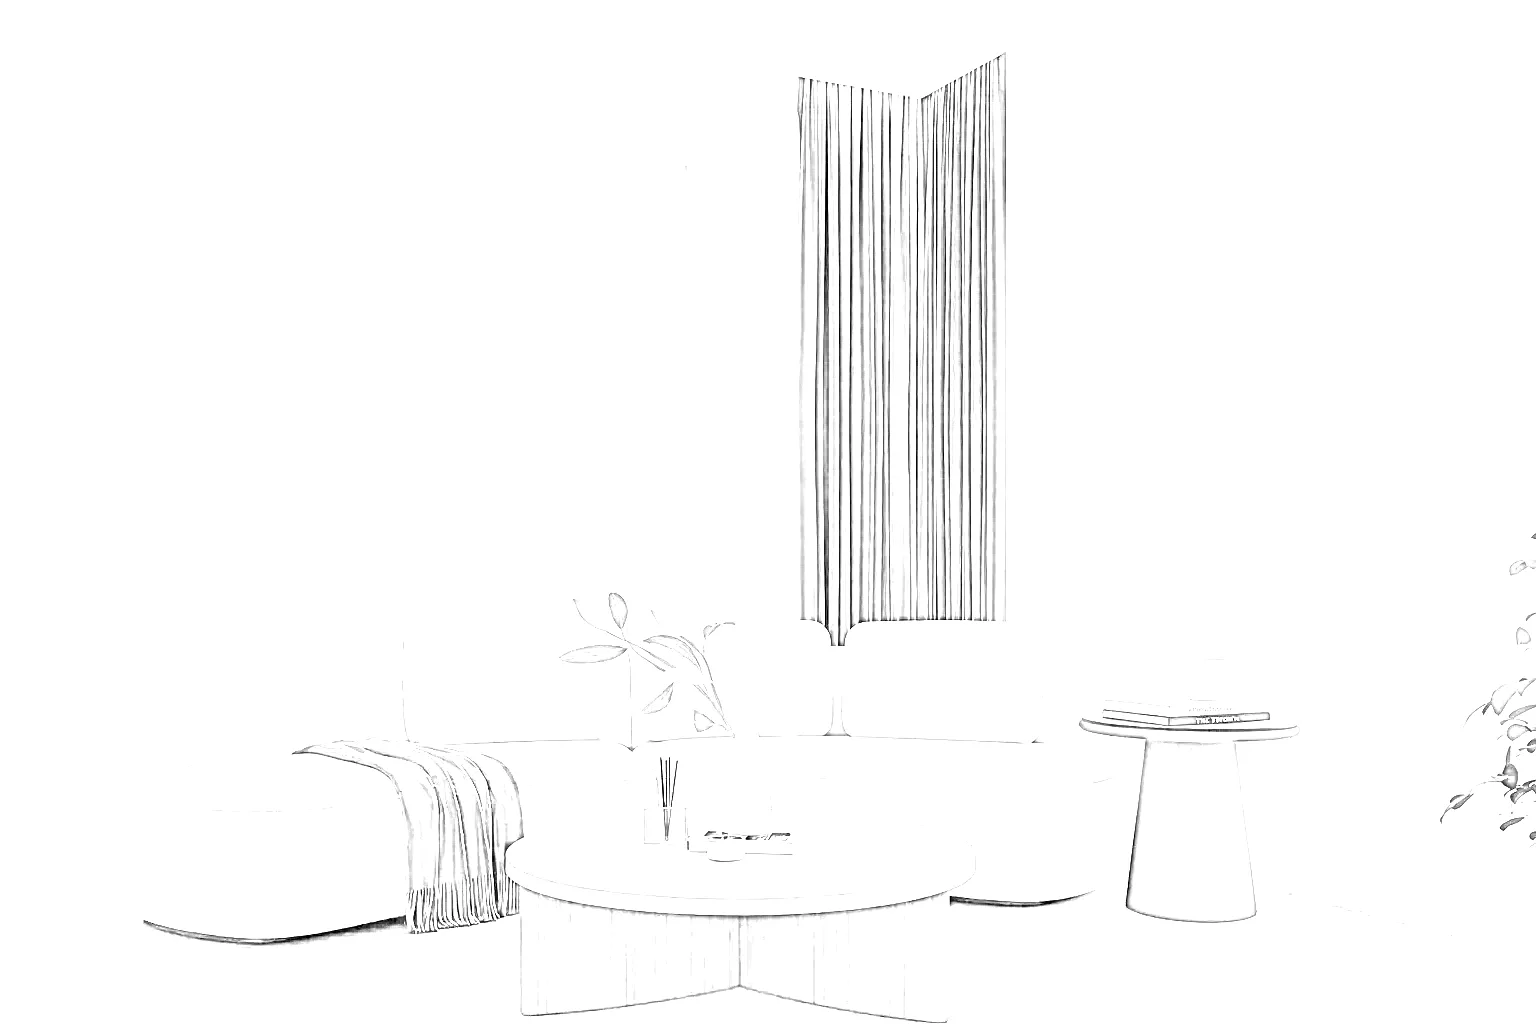
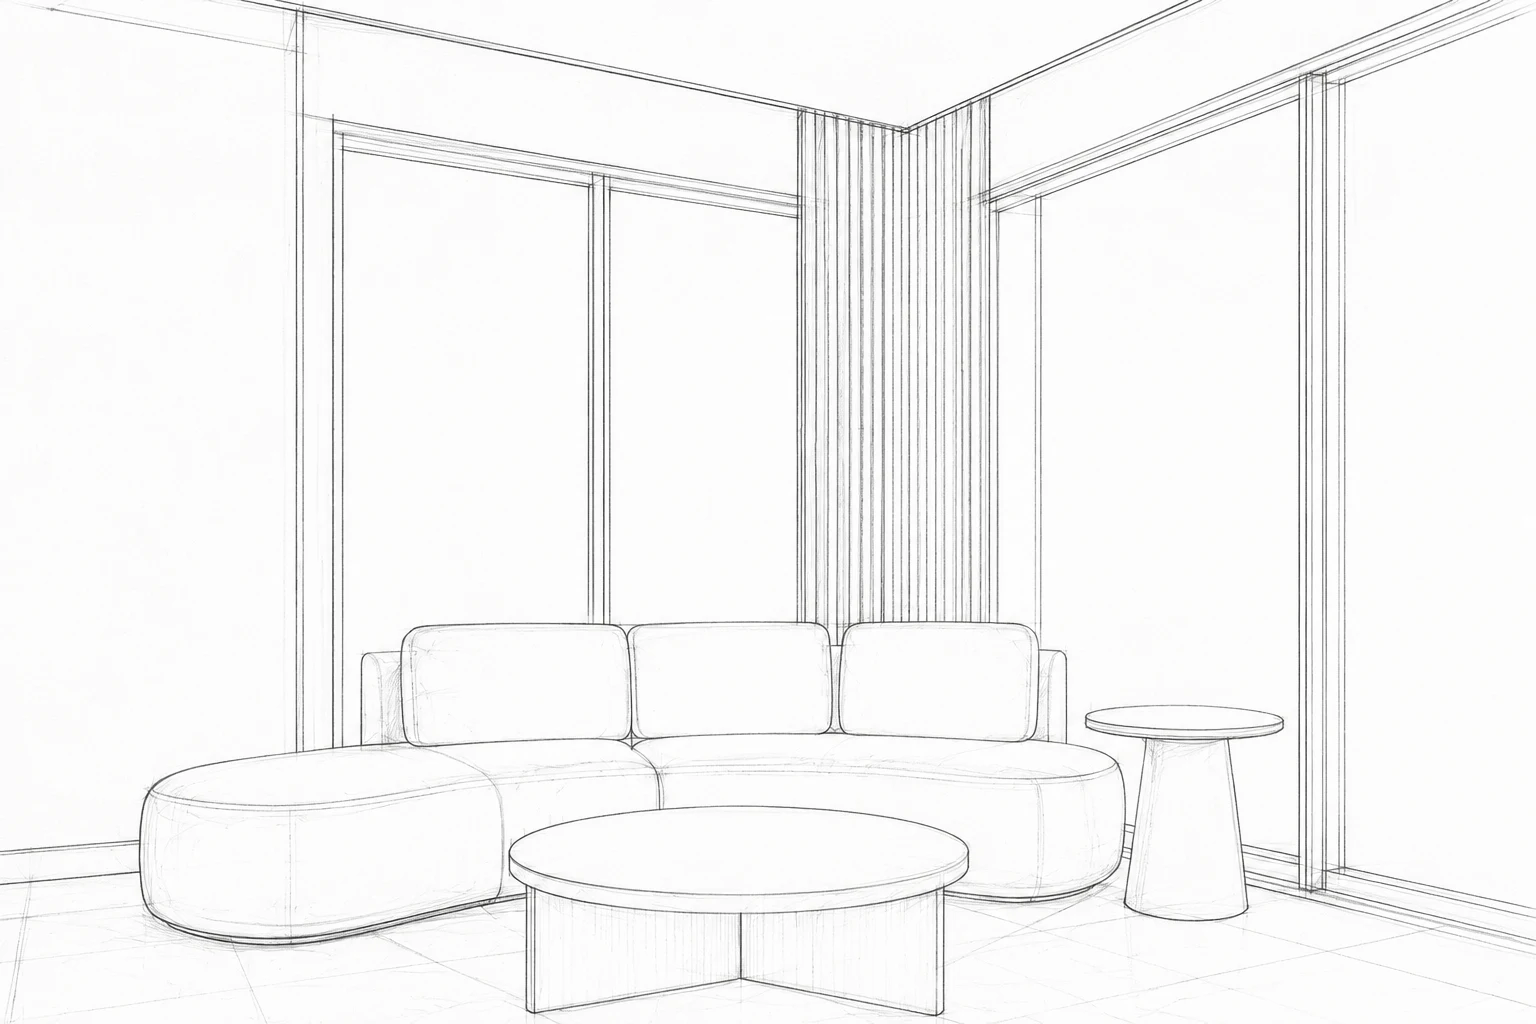
Use the designer's own drawing under the services hero
The sketch I made from the photograph was a stand-in and read as one.
The real thing is in the file: a line study of this very room, sitting
beside the Services frame on the canvas as `image 42` rather than inside
it, which is why the first pass through the frame's own children missed
it. 1536x1024, the same size as the photograph it underlies.

Finding it needed the file endpoint again — the nodes endpoint is still
rate-limited — and then looking at what sits next to the frame on the
canvas rather than within it.

THE TITLE NOW CHANGES HANDS instead of hiding behind a veil, which is
what the reference actually does: its own heading is dark on the light
drawing and the photograph opens underneath it. Ours sits low in the
frame, so the window reaches the type almost at once — the white copy is
brought up between a twelfth and a third of the way through, exactly
when the picture passes the words.

Two copies cross-fading rather than one changing colour, because this
loop writes transforms and opacity and recolouring 108px of display type
would repaint it every frame. The white copy is aria-hidden: there is
one title on the page, not two.

The veil goes with it — the drawing is clean and light, and dark type on
it needs nothing behind it. Reduced motion still opens on the
photograph, with the white title, and the page still measures 18/18.

diff --git a/public/build/assets/app-CpJ6S5TU.js b/public/build/assets/app-CpJ6S5TU.js
@@ -9,4 +9,4 @@ var e=new Set,t={y:0,vh:0},n=0,r=!1;function i(){n=0,t.y=window.scrollY,t.vh=win
                 class="absolute right-[clamp(0.5rem,2.31vw,40px)] top-1/2 -translate-y-1/2 p-4 text-[clamp(1.5rem,2.31vw,40px)] leading-none text-white transition-opacity hover:opacity-70">&#8250;</button>
         <p data-lightbox-count aria-live="polite"
            class="absolute bottom-[clamp(1rem,2.31vw,40px)] left-1/2 -translate-x-1/2 text-[clamp(0.875rem,1.157vw,20px)] font-semibold text-white"></p>
-    `,document.body.append(i);let a=i.querySelector(`[data-lightbox-image]`),o=i.querySelector(`[data-lightbox-count]`),s=()=>{let e=t[n];a.style.opacity=`0`;let r=new Image;r.onload=()=>{a.src=r.src,a.alt=e.getAttribute(`data-lightbox-alt`)??``,a.style.opacity=`1`},r.src=e.href,o.textContent=`${n+1} / ${t.length}`},c=(e,a)=>{t=Array.from(e.querySelectorAll(`[data-lightbox-item]`)),n=t.indexOf(a),r=a,document.body.style.overflow=`hidden`,i.classList.remove(`hidden`),i.classList.add(`flex`),requestAnimationFrame(()=>i.style.opacity=`1`),s(),i.querySelector(`[data-lightbox-close]`).focus()},l=()=>{i.style.opacity=`0`,setTimeout(()=>{i.classList.add(`hidden`),i.classList.remove(`flex`),a.removeAttribute(`src`)},300),document.body.style.overflow=``,r?.focus()},u=e=>{n=(n+e+t.length)%t.length,s()};for(let t of e)t.addEventListener(`click`,e=>{let n=e.target.closest(`[data-lightbox-item]`);!n||!t.contains(n)||(e.preventDefault(),c(t,n))});i.addEventListener(`click`,e=>{if(e.target===i||e.target.closest(`[data-lightbox-close]`))return l();if(e.target.closest(`[data-lightbox-prev]`))return u(-1);if(e.target.closest(`[data-lightbox-next]`))return u(1)}),document.addEventListener(`keydown`,e=>{i.classList.contains(`hidden`)||(e.key===`Escape`&&l(),e.key===`ArrowLeft`&&u(-1),e.key===`ArrowRight`&&u(1))})}function Y(){let e=Array.from(document.querySelectorAll(`[data-grow-scene]`));if(e.length===0)return;let t=l();for(let n of e){let e=n.querySelector(`[data-grow-frame]`),r=n.querySelector(`[data-grow-media]`),i=n.querySelector(`[data-grow-word]`),a=n.querySelector(`[data-grow-copy]`);if(!e)continue;let o=Number(n.dataset.growFromX??958/1728),s=Number(n.dataset.growRatio??958/522),l=t=>{let n=Math.min(1,window.innerWidth*o/s/window.innerHeight),c=t<.5?2*t*t:1-(-2*t+2)**2/2,l=o+(1-o)*c,u=n+(1-n)*c;if(e.style.transform=`scale(${l.toFixed(4)}, ${u.toFixed(4)})`,r&&(r.style.transform=`scale(${(1+.1*(1-c)).toFixed(4)})`),i&&(i.style.opacity=String(Math.max(0,1-c*2.2).toFixed(3))),a){let e=Math.max(0,Math.min(1,(c-.62)/.3));a.style.opacity=e.toFixed(3),a.style.transform=`translateY(${((1-e)*24).toFixed(1)}px)`}};if(t){l(0);continue}c(({y:e,vh:t})=>{let r=n.getBoundingClientRect(),i=Math.max(1,r.height-t),a=Math.min(1,Math.max(0,-r.top/i));l(a)}),l(0)}}function X(){let e=Array.from(document.querySelectorAll(`[data-reveal-scene]`));if(e.length!==0)for(let t of e){let e=t.querySelector(`[data-reveal-window]`),n=t.querySelector(`[data-reveal-media]`),r=t.querySelector(`[data-reveal-veil]`);if(!e||!n)continue;let i=t=>{let i=.5+.5*t,a=.1+.9*t;e.style.transform=`scale(${i.toFixed(4)}, ${a.toFixed(4)})`,n.style.transform=`scale(${(1/i).toFixed(4)}, ${(1/a).toFixed(4)})`,r&&(r.style.opacity=(.45*(1-t)).toFixed(3))};if(l()){i(1);continue}c(({vh:e})=>{let n=t.getBoundingClientRect(),r=Math.max(1,n.height-e);i(Math.min(1,Math.max(0,-n.top/r)))}),i(0)}}function Z(){document.querySelectorAll(`[data-select]`).forEach(Q)}function Q(e){let t=e.querySelector(`[data-select-native]`),n=e.querySelector(`[data-select-button]`),r=e.querySelector(`[data-select-listbox]`),i=e.querySelector(`[data-select-value]`);if(!t||!n||!r||!i)return;let a=Array.from(r.querySelectorAll(`[role="option"]`));if(!a.length)return;let o=i.textContent.trim(),s=!1,c=-1,l=``,u=0;t.setAttribute(`aria-hidden`,`true`),t.setAttribute(`tabindex`,`-1`),e.dataset.enhanced=`true`;let d=e=>a.findIndex(t=>t.dataset.value===e),f=()=>{let e=d(t.value);a.forEach((t,n)=>{t.setAttribute(`aria-selected`,n===e?`true`:`false`),t.dataset.active=n===c?`true`:`false`}),i.textContent=e===-1?o:a[e].dataset.value},p=e=>{c=Math.max(0,Math.min(e,a.length-1)),n.setAttribute(`aria-activedescendant`,a[c].id),f(),a[c].scrollIntoView({block:`nearest`})},m=()=>{let t=n.getBoundingClientRect(),i=r.offsetHeight,a=window.innerHeight-t.bottom-8,o=t.top-8;e.dataset.drop=i>a&&o>a?`up`:`down`},h=i=>{s!==i&&(s=i,r.hidden=!i,n.setAttribute(`aria-expanded`,i?`true`:`false`),e.dataset.open=i?`true`:`false`,i?(m(),p(Math.max(0,d(t.value)))):(n.removeAttribute(`aria-activedescendant`),c=-1,f()))},g=e=>{t.value=a[e].dataset.value,t.dispatchEvent(new Event(`change`,{bubbles:!0})),h(!1),f(),n.focus()};n.addEventListener(`click`,()=>h(!s)),n.addEventListener(`keydown`,e=>{switch(e.key){case`ArrowDown`:e.preventDefault(),s?p(c+1):h(!0);break;case`ArrowUp`:e.preventDefault(),s?p(c-1):h(!0);break;case`Home`:if(!s)break;e.preventDefault(),p(0);break;case`End`:if(!s)break;e.preventDefault(),p(a.length-1);break;case`Enter`:case` `:e.preventDefault(),s&&c>-1?g(c):h(!0);break;case`Escape`:if(!s)break;e.preventDefault(),h(!1);break;case`Tab`:h(!1);break;default:_(e)}});function _(e){if(e.key.length!==1||e.metaKey||e.ctrlKey||e.altKey)return;l+=e.key.toLowerCase(),window.clearTimeout(u),u=window.setTimeout(()=>{l=``},600);let t=a.findIndex(e=>e.dataset.value.toLowerCase().startsWith(l));t!==-1&&(e.preventDefault(),s||h(!0),p(t))}a.forEach((e,t)=>{e.addEventListener(`pointerdown`,e=>{e.preventDefault(),g(t)}),e.addEventListener(`pointermove`,()=>{c!==t&&p(t)})}),document.addEventListener(`pointerdown`,t=>{s&&!e.contains(t.target)&&h(!1)}),t.addEventListener(`change`,f),t.addEventListener(`invalid`,()=>n.focus()),f()}function $(){m(),B(),z(),V(),Z(),H(),q(),J(),Y(),X(),R(),j(),M(),I(),L(),A()}document.readyState===`loading`?document.addEventListener(`DOMContentLoaded`,$):$();
+    `,document.body.append(i);let a=i.querySelector(`[data-lightbox-image]`),o=i.querySelector(`[data-lightbox-count]`),s=()=>{let e=t[n];a.style.opacity=`0`;let r=new Image;r.onload=()=>{a.src=r.src,a.alt=e.getAttribute(`data-lightbox-alt`)??``,a.style.opacity=`1`},r.src=e.href,o.textContent=`${n+1} / ${t.length}`},c=(e,a)=>{t=Array.from(e.querySelectorAll(`[data-lightbox-item]`)),n=t.indexOf(a),r=a,document.body.style.overflow=`hidden`,i.classList.remove(`hidden`),i.classList.add(`flex`),requestAnimationFrame(()=>i.style.opacity=`1`),s(),i.querySelector(`[data-lightbox-close]`).focus()},l=()=>{i.style.opacity=`0`,setTimeout(()=>{i.classList.add(`hidden`),i.classList.remove(`flex`),a.removeAttribute(`src`)},300),document.body.style.overflow=``,r?.focus()},u=e=>{n=(n+e+t.length)%t.length,s()};for(let t of e)t.addEventListener(`click`,e=>{let n=e.target.closest(`[data-lightbox-item]`);!n||!t.contains(n)||(e.preventDefault(),c(t,n))});i.addEventListener(`click`,e=>{if(e.target===i||e.target.closest(`[data-lightbox-close]`))return l();if(e.target.closest(`[data-lightbox-prev]`))return u(-1);if(e.target.closest(`[data-lightbox-next]`))return u(1)}),document.addEventListener(`keydown`,e=>{i.classList.contains(`hidden`)||(e.key===`Escape`&&l(),e.key===`ArrowLeft`&&u(-1),e.key===`ArrowRight`&&u(1))})}function Y(){let e=Array.from(document.querySelectorAll(`[data-grow-scene]`));if(e.length===0)return;let t=l();for(let n of e){let e=n.querySelector(`[data-grow-frame]`),r=n.querySelector(`[data-grow-media]`),i=n.querySelector(`[data-grow-word]`),a=n.querySelector(`[data-grow-copy]`);if(!e)continue;let o=Number(n.dataset.growFromX??958/1728),s=Number(n.dataset.growRatio??958/522),l=t=>{let n=Math.min(1,window.innerWidth*o/s/window.innerHeight),c=t<.5?2*t*t:1-(-2*t+2)**2/2,l=o+(1-o)*c,u=n+(1-n)*c;if(e.style.transform=`scale(${l.toFixed(4)}, ${u.toFixed(4)})`,r&&(r.style.transform=`scale(${(1+.1*(1-c)).toFixed(4)})`),i&&(i.style.opacity=String(Math.max(0,1-c*2.2).toFixed(3))),a){let e=Math.max(0,Math.min(1,(c-.62)/.3));a.style.opacity=e.toFixed(3),a.style.transform=`translateY(${((1-e)*24).toFixed(1)}px)`}};if(t){l(0);continue}c(({y:e,vh:t})=>{let r=n.getBoundingClientRect(),i=Math.max(1,r.height-t),a=Math.min(1,Math.max(0,-r.top/i));l(a)}),l(0)}}function X(){let e=Array.from(document.querySelectorAll(`[data-reveal-scene]`));if(e.length!==0)for(let t of e){let e=t.querySelector(`[data-reveal-window]`),n=t.querySelector(`[data-reveal-media]`),r=t.querySelector(`[data-reveal-title-light]`);if(!e||!n)continue;let i=t=>{let i=.5+.5*t,a=.1+.9*t;e.style.transform=`scale(${i.toFixed(4)}, ${a.toFixed(4)})`,n.style.transform=`scale(${(1/i).toFixed(4)}, ${(1/a).toFixed(4)})`,r&&(r.style.opacity=Math.max(0,Math.min(1,(t-.08)/.22)).toFixed(3))};if(l()){i(1);continue}c(({vh:e})=>{let n=t.getBoundingClientRect(),r=Math.max(1,n.height-e);i(Math.min(1,Math.max(0,-n.top/r)))}),i(0)}}function Z(){document.querySelectorAll(`[data-select]`).forEach(Q)}function Q(e){let t=e.querySelector(`[data-select-native]`),n=e.querySelector(`[data-select-button]`),r=e.querySelector(`[data-select-listbox]`),i=e.querySelector(`[data-select-value]`);if(!t||!n||!r||!i)return;let a=Array.from(r.querySelectorAll(`[role="option"]`));if(!a.length)return;let o=i.textContent.trim(),s=!1,c=-1,l=``,u=0;t.setAttribute(`aria-hidden`,`true`),t.setAttribute(`tabindex`,`-1`),e.dataset.enhanced=`true`;let d=e=>a.findIndex(t=>t.dataset.value===e),f=()=>{let e=d(t.value);a.forEach((t,n)=>{t.setAttribute(`aria-selected`,n===e?`true`:`false`),t.dataset.active=n===c?`true`:`false`}),i.textContent=e===-1?o:a[e].dataset.value},p=e=>{c=Math.max(0,Math.min(e,a.length-1)),n.setAttribute(`aria-activedescendant`,a[c].id),f(),a[c].scrollIntoView({block:`nearest`})},m=()=>{let t=n.getBoundingClientRect(),i=r.offsetHeight,a=window.innerHeight-t.bottom-8,o=t.top-8;e.dataset.drop=i>a&&o>a?`up`:`down`},h=i=>{s!==i&&(s=i,r.hidden=!i,n.setAttribute(`aria-expanded`,i?`true`:`false`),e.dataset.open=i?`true`:`false`,i?(m(),p(Math.max(0,d(t.value)))):(n.removeAttribute(`aria-activedescendant`),c=-1,f()))},g=e=>{t.value=a[e].dataset.value,t.dispatchEvent(new Event(`change`,{bubbles:!0})),h(!1),f(),n.focus()};n.addEventListener(`click`,()=>h(!s)),n.addEventListener(`keydown`,e=>{switch(e.key){case`ArrowDown`:e.preventDefault(),s?p(c+1):h(!0);break;case`ArrowUp`:e.preventDefault(),s?p(c-1):h(!0);break;case`Home`:if(!s)break;e.preventDefault(),p(0);break;case`End`:if(!s)break;e.preventDefault(),p(a.length-1);break;case`Enter`:case` `:e.preventDefault(),s&&c>-1?g(c):h(!0);break;case`Escape`:if(!s)break;e.preventDefault(),h(!1);break;case`Tab`:h(!1);break;default:_(e)}});function _(e){if(e.key.length!==1||e.metaKey||e.ctrlKey||e.altKey)return;l+=e.key.toLowerCase(),window.clearTimeout(u),u=window.setTimeout(()=>{l=``},600);let t=a.findIndex(e=>e.dataset.value.toLowerCase().startsWith(l));t!==-1&&(e.preventDefault(),s||h(!0),p(t))}a.forEach((e,t)=>{e.addEventListener(`pointerdown`,e=>{e.preventDefault(),g(t)}),e.addEventListener(`pointermove`,()=>{c!==t&&p(t)})}),document.addEventListener(`pointerdown`,t=>{s&&!e.contains(t.target)&&h(!1)}),t.addEventListener(`change`,f),t.addEventListener(`invalid`,()=>n.focus()),f()}function $(){m(),B(),z(),V(),Z(),H(),q(),J(),Y(),X(),R(),j(),M(),I(),L(),A()}document.readyState===`loading`?document.addEventListener(`DOMContentLoaded`,$):$();

diff --git a/resources/js/motion/reveal-scene.js b/resources/js/motion/reveal-scene.js
@@ -28,7 +28,7 @@ export function initRevealScene() {
     for (const scene of scenes) {
         const window_ = scene.querySelector('[data-reveal-window]');
         const media = scene.querySelector('[data-reveal-media]');
-        const veil = scene.querySelector('[data-reveal-veil]');
+        const light = scene.querySelector('[data-reveal-title-light]');
         if (!window_ || !media) continue;
 
         const apply = (t) => {
@@ -39,12 +39,18 @@ export function initRevealScene() {
             media.style.transform = `scale(${(1 / x).toFixed(4)}, ${(1 / y).toFixed(4)})`;
 
             /*
-             * The drawing is white and so is the title over it, so the title
-             * has nothing to sit against until the photograph arrives. This
-             * veil covers the drawing only — it is under the window — and
-             * lifts as the picture takes over the frame.
+             * The title changes hands rather than sitting behind a veil, which
+             * is what the reference does: its own is dark on the drawing and
+             * the photograph opens underneath it. Ours sits low in the frame,
+             * so the window reaches it almost at once — the white copy is
+             * therefore brought up between a twelfth and a third of the way
+             * through, which is when the picture passes the type.
+             *
+             * Two copies cross-fading rather than one changing colour: this
+             * loop writes transforms and opacity, and recolouring 108px of
+             * display type would repaint it on every frame.
              */
-            if (veil) veil.style.opacity = (0.45 * (1 - t)).toFixed(3);
+            if (light) light.style.opacity = Math.max(0, Math.min(1, (t - 0.08) / 0.22)).toFixed(3);
         };
 
         // Opened, not closed: a visitor who has asked for less movement should

diff --git a/resources/views/sections/services-page/hero.blade.php b/resources/views/sections/services-page/hero.blade.php
@@ -27,10 +27,6 @@
              aria-hidden="true" fetchpriority="high" decoding="async"
              class="absolute inset-0 -z-20 h-full w-full object-cover">
 
-        {{-- Over the drawing and under the window: what the title reads
-             against before the photograph is there. --}}
-        <div data-reveal-veil aria-hidden="true" class="absolute inset-0 -z-20 bg-night" style="opacity:0.45"></div>
-
         {{-- The photograph, in a window that opens from the foot of the frame.
              The window scales and the picture inside it scales by the inverse,
              so the picture stands still while the window grows. --}}
@@ -46,13 +42,25 @@
 
         <x-site-header :login="false"/>
 
-        <div class="relative z-10 mt-auto pb-[clamp(1rem,1.91vw,33px)] text-white">
+        <div class="relative z-10 mt-auto pb-[clamp(1rem,1.91vw,33px)]">
             <div class="shell">
-                <h1 class="font-display text-[clamp(2.25rem,6.25vw,108px)] font-medium leading-[1.37] tracking-normal">
-                    {{-- 517 of 1728, which is where the frame sets the first line. --}}
-                    <span data-split data-split-by="word" class="block lg:ml-[29.9%]">{{ $hero['lines'][0] }}</span>
-                    <span data-split data-split-by="word" data-split-delay="160" class="block lg:-ml-[1.3%]">{{ $hero['lines'][1] }}</span>
-                </h1>
+                <div class="relative">
+                    <h1 class="font-display text-[clamp(2.25rem,6.25vw,108px)] font-medium leading-[1.37] tracking-normal text-ink">
+                        {{-- 517 of 1728, which is where the frame sets the first line. --}}
+                        <span data-split data-split-by="word" class="block lg:ml-[29.9%]">{{ $hero['lines'][0] }}</span>
+                        <span data-split data-split-by="word" data-split-delay="160" class="block lg:-ml-[1.3%]">{{ $hero['lines'][1] }}</span>
+                    </h1>
+
+                    {{-- The same words in white, brought up as the photograph
+                         passes the type. Hidden from the reading order: there
+                         is one title on this page, not two. --}}
+                    <p data-reveal-title-light aria-hidden="true"
+                       class="pointer-events-none absolute inset-0 font-display text-[clamp(2.25rem,6.25vw,108px)] font-medium leading-[1.37] tracking-normal text-white"
+                       style="opacity:0">
+                        <span class="block lg:ml-[29.9%]">{{ $hero['lines'][0] }}</span>
+                        <span class="block lg:-ml-[1.3%]">{{ $hero['lines'][1] }}</span>
+                    </p>
+                </div>
             </div>
         </div>
     </div>
